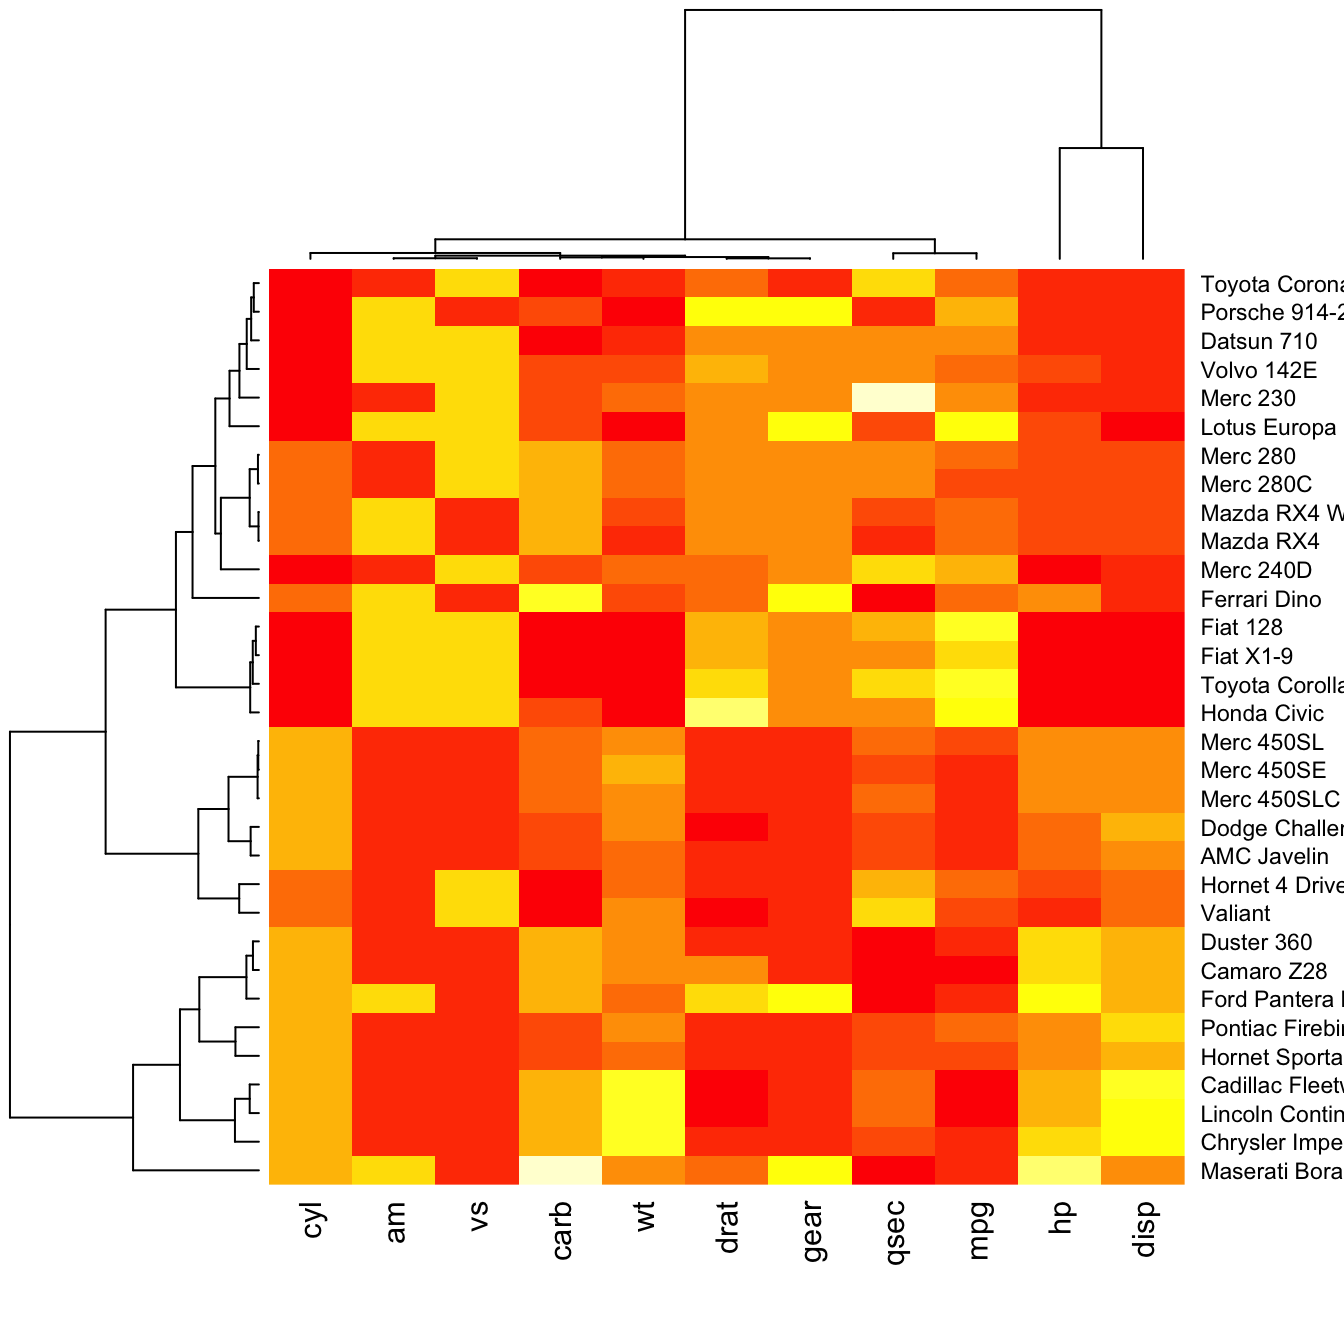
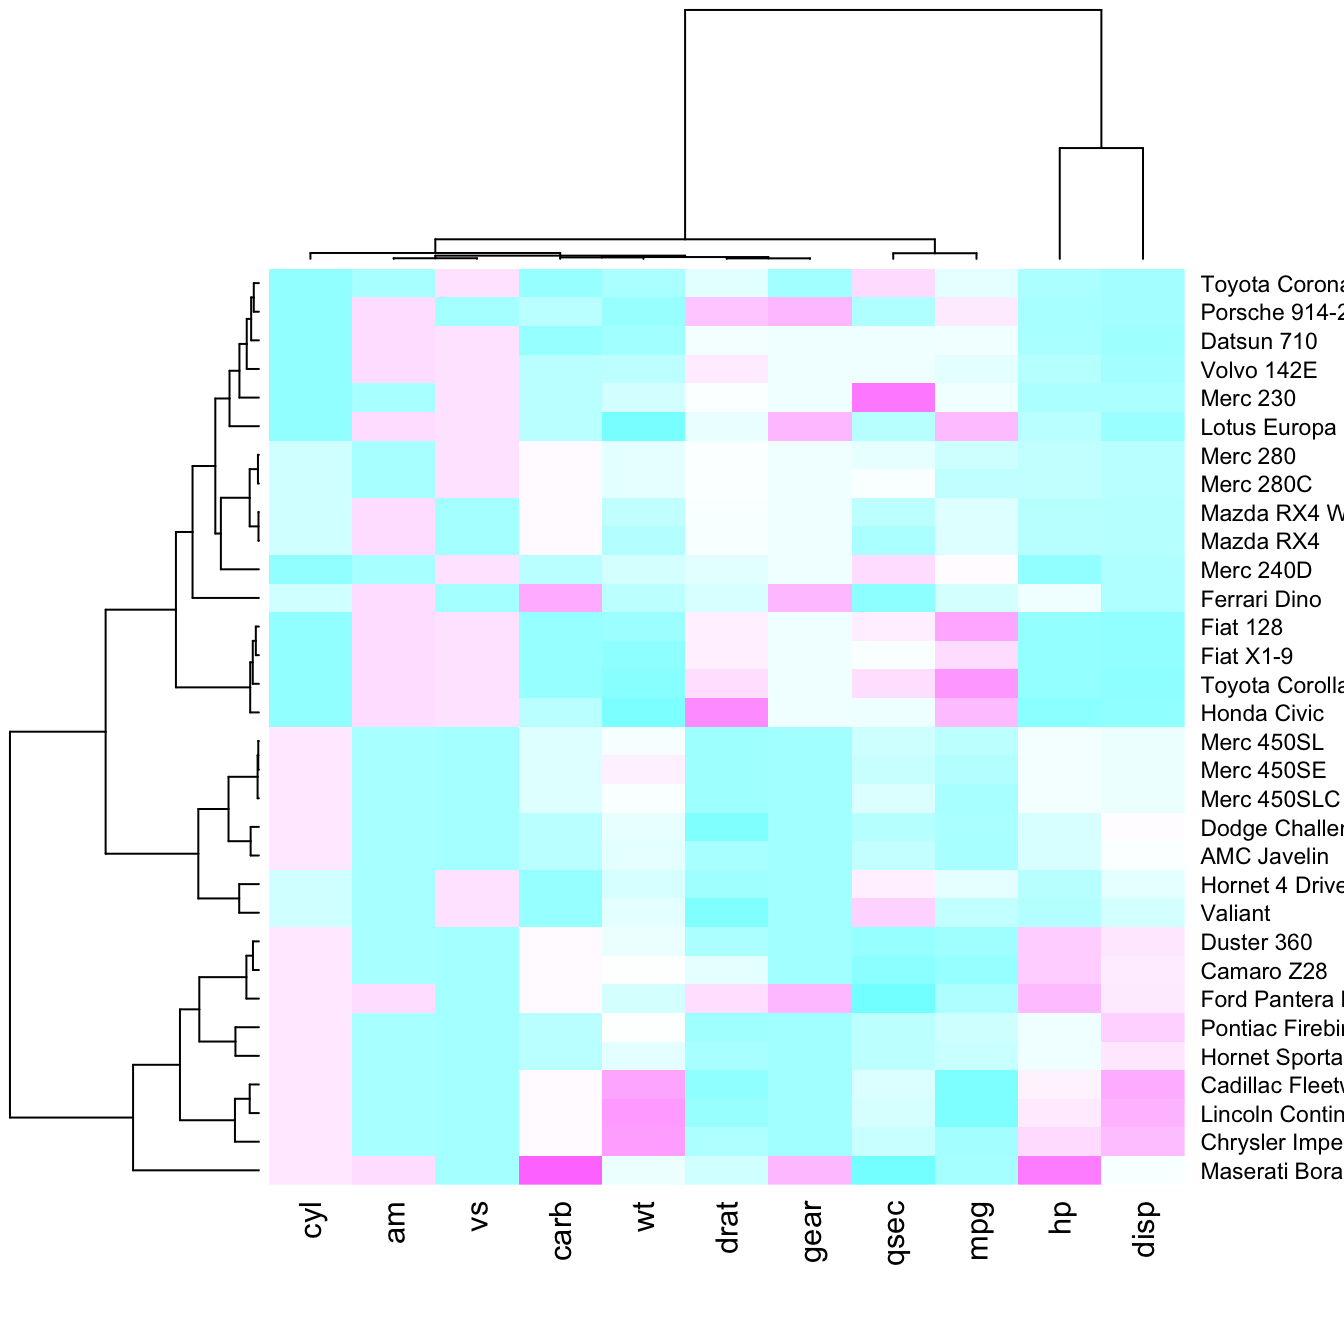
Heatmap section started

diff --git a/215-the-heatmap-function.html b/215-the-heatmap-function.html
@@ -209,18 +209,54 @@ data &lt;-<span class="st"> </span><span class="kw">as.matrix</span>(mtcars)
 </div>
 <div class="sourceCode"><pre class="sourceCode r"><code class="sourceCode r"><span class="co"># No dendrogram nor reordering for neither column or row</span>
 <span class="kw">heatmap</span>(data, <span class="dt">Colv =</span> <span class="ot">NA</span>, <span class="dt">Rowv =</span> <span class="ot">NA</span>, <span class="dt">scale=</span><span class="st">&quot;column&quot;</span>)</code></pre></div>
-<h1 id="normalization-1">Normalization</h1>
+<h1 id="color-palette">Color palette</h1>
+<hr />
+<p><img src="215-the-heatmap-function_files/figure-html/thecode4-1.png" width="30%" /><img src="215-the-heatmap-function_files/figure-html/thecode4-2.png" width="30%" /><img src="215-the-heatmap-function_files/figure-html/thecode4-3.png" width="30%" /></p>
+<div class="row">
+<div class="col-md-6 col-sm-12 align-self-center">
+<p>There are several ways to custom the color palette:</p>
+<ul>
+<li>use the native palettes of R: <code>terrain.color()</code>, <code>rainbow()</code>, <code>heat.colors()</code>, <code>topo.colors()</code> or <code>cm.colors()</code></li>
+<li>use the palettes proposed by <code>RColorBrewer</code>. See list of available palettes <a href="38-rcolorbrewers-palettes.html">here</a>.</li>
+</ul>
+</div>
+<div class="col-md-6 col-sm-12">
+<div class="sourceCode"><pre class="sourceCode r"><code class="sourceCode r"><span class="co"># 1: native palette from R</span>
+<span class="kw">heatmap</span>(data, <span class="dt">scale=</span><span class="st">&quot;column&quot;</span>, <span class="dt">col =</span> <span class="kw">cm.colors</span>(<span class="dv">256</span>))
+<span class="kw">heatmap</span>(data, <span class="dt">scale=</span><span class="st">&quot;column&quot;</span>, <span class="dt">col =</span> <span class="kw">terrain.colors</span>(<span class="dv">256</span>))
+ 
+<span class="co"># 2: Rcolorbrewer palette</span>
+<span class="kw">library</span>(RColorBrewer)
+coul &lt;-<span class="st"> </span><span class="kw">colorRampPalette</span>(<span class="kw">brewer.pal</span>(<span class="dv">8</span>, <span class="st">&quot;PiYG&quot;</span>))(<span class="dv">25</span>)
+<span class="kw">heatmap</span>(data, <span class="dt">scale=</span><span class="st">&quot;column&quot;</span>, <span class="dt">col =</span> coul)</code></pre></div>
+</div>
+</div>
+<h1 id="custom-layout">Custom Layout</h1>
+<hr />
+<p><img src="215-the-heatmap-function_files/figure-html/thecode5-1.png" width="50%" /><img src="215-the-heatmap-function_files/figure-html/thecode5-2.png" width="50%" /></p>
+<p>You can custom title &amp; axis titles with the usual <code>main</code> and <code>xlab</code>/<code>ylab</code> arguments (left).</p>
+<p>You can also change labels with <code>labRow</code>/<code>colRow</code> and their size with <code>cexRow</code>/<code>cexCol</code>.</p>
+<div class="sourceCode"><pre class="sourceCode r"><code class="sourceCode r"><span class="co"># Add classic arguments like main title and axis title</span>
+<span class="kw">heatmap</span>(data, <span class="dt">Colv =</span> <span class="ot">NA</span>, <span class="dt">Rowv =</span> <span class="ot">NA</span>, <span class="dt">scale=</span><span class="st">&quot;column&quot;</span>, <span class="dt">col =</span> coul, <span class="dt">xlab=</span><span class="st">&quot;variable&quot;</span>, <span class="dt">ylab=</span><span class="st">&quot;car&quot;</span>, <span class="dt">main=</span><span class="st">&quot;heatmap&quot;</span>)
+ 
+<span class="co"># Custom x and y labels with cexRow and labRow (col respectively)</span>
+<span class="kw">heatmap</span>(data, <span class="dt">scale=</span><span class="st">&quot;column&quot;</span>, <span class="dt">cexRow=</span><span class="fl">1.5</span>, <span class="dt">labRow=</span><span class="kw">paste</span>(<span class="st">&quot;new_&quot;</span>, <span class="kw">rownames</span>(data),<span class="dt">sep=</span><span class="st">&quot;&quot;</span>), <span class="dt">col=</span> <span class="kw">colorRampPalette</span>(<span class="kw">brewer.pal</span>(<span class="dv">8</span>, <span class="st">&quot;Blues&quot;</span>))(<span class="dv">25</span>))</code></pre></div>
+<h1 id="add-color-beside-heatmap">Add color beside heatmap</h1>
 <hr />
 <div class="row">
 <div class="col-md-6 col-sm-12 align-self-center">
-<p>Normalizing the matrix is done using the <code>scale</code> argument of the <code>heatmap()</code> function. It can be applied to <code>row</code> or to <code>column</code>. Here the <code>column</code> option is chosen, since we need to absorb the variation between column.</p>
+<p>Often, heatmap intends to compare the observed structure with an expected one.</p>
+<p>You can add a vector of color beside the heatmap to represents the expected structure using the <code>RowSideColors</code> argument.</p>
 </div>
 <div class="col-md-6 col-sm-12">
-<p><img src="215-the-heatmap-function_files/figure-html/thecode4-1.png" width="100%" /></p>
+<p><img src="215-the-heatmap-function_files/figure-html/thecode6-1.png" width="100%" /></p>
 </div>
 </div>
-<div class="sourceCode"><pre class="sourceCode r"><code class="sourceCode r"><span class="co"># Use &#39;scale&#39; to normalize</span>
-<span class="kw">heatmap</span>(data, <span class="dt">scale=</span><span class="st">&quot;column&quot;</span>)</code></pre></div>
+<div class="sourceCode"><pre class="sourceCode r"><code class="sourceCode r"><span class="co"># Example: grouping from the first letter:</span>
+my_group &lt;-<span class="st"> </span><span class="kw">as.numeric</span>(<span class="kw">as.factor</span>(<span class="kw">substr</span>(<span class="kw">rownames</span>(data), <span class="dv">1</span> , <span class="dv">1</span>)))
+colSide &lt;-<span class="st"> </span><span class="kw">brewer.pal</span>(<span class="dv">9</span>, <span class="st">&quot;Set1&quot;</span>)[my_group]
+colMain &lt;-<span class="st"> </span><span class="kw">colorRampPalette</span>(<span class="kw">brewer.pal</span>(<span class="dv">8</span>, <span class="st">&quot;Blues&quot;</span>))(<span class="dv">25</span>)
+<span class="kw">heatmap</span>(data, <span class="dt">Colv =</span> <span class="ot">NA</span>, <span class="dt">Rowv =</span> <span class="ot">NA</span>, <span class="dt">scale=</span><span class="st">&quot;column&quot;</span> , <span class="dt">RowSideColors=</span>colSide, <span class="dt">col=</span>colMain   )</code></pre></div>
 <!-- Close container -->
 </div>
 <!-- ============================ RELATED SECTION ============================ -->

diff --git a/heatmap.html b/heatmap.html
@@ -14,16 +14,16 @@
     </script>
 
     <meta charset="utf-8">
-    <title>Heatmap &#124; the D3 Graph Gallery</title>
+    <title>Heatmap &#124; the R Graph Gallery</title>
 
     <meta name="viewport" content="width=device-width, initial-scale=1, shrink-to-fit=no">
-    <meta name="description" content="How to build a heatmap with Javascript and D3.js: from the most basic example to highly customized examples.">
-    <meta name="keywords" content="Data,Dataviz,Datavisualization,Javascript,D3,D3.js,area chart">
+    <meta name="description" content="A heatmap is a graphical representation of data where the individual values contained in a matrix are represented as colors. This page displays many examples built with R, both static and interactive">
+    <meta name="keywords" content="Data,Dataviz,Datavisualization,Javascript,D3,D3.js,heatmap">
     <meta name="author" content="Yan Holtz">
 
-    <meta property="og:title" content="Area Chart &#124; the D3 Graph Gallery">
+    <meta property="og:title" content="Heatmap &#124; the R Graph Gallery">
     <meta property="og:image" content="img/overview_RGG.png">
-    <meta property="og:description" content="How to build a heatmap with Javascript and D3.js: from the most basic example to highly customized examples.">
+    <meta property="og:description" content="A heatmap is a graphical representation of data where the individual values contained in a matrix are represented as colors. This page displays many examples built with R, both static and interactive">
 
     <!-- Bootstrap core CSS -->
     <link href="vendor/bootstrap/css/bootstrap.min.css" rel="stylesheet">
@@ -40,10 +40,6 @@
 
     <!-- JQUERY -->
     <script src="vendor/jquery/jquery.min.js"></script>
-
-    <!-- D3.JS v4 -->
-    <script src="js/d3.v4.js"></script>
-    <script src="https://d3js.org/d3-scale-chromatic.v1.min.js"></script>
 
 </head>
 
@@ -97,7 +93,7 @@ $(function(){
         </li>
       </ul>
       <br><br>
-      <p style="max-width: 700px; margin: auto">This is the <a href="https://www.data-to-viz.com/graph/heatmap.html">heatmap</a> section of the gallery. If you want to know more about this kind of chart, visit <a href="https://www.data-to-viz.com/graph/heatmap.html">data-to-viz.com</a>. If you're looking for a simple way to implement it in d3.js, pick an example below.</p>
+      <p style="max-width: 700px; margin: auto">A <a href="https://www.data-to-viz.com/graph/heatmap.html">heatmap</a> is a graphical representation of data where the individual values contained in a matrix are represented as colors. This page displays many examples built with R, both static and interactive.</p>
   </div>
 </header>
 
@@ -130,39 +126,39 @@ $(function(){
     <hr>
     <div id="portfolio-items" class="row">
       <div class="col-md-4 col-sm-6 portfolio-item">
-        <a class="portfolio-link" href="graph/heatmap_basic.html">
+        <a class="portfolio-link" href="215-the-heatmap-function.html">
           <div class="portfolio-hover">
             <div class="portfolio-hover-content">
-              <p>Most basic</p>
+              <p>Most basic heatmap</p>
               <hr>
-              <p class="explanation_portfolio">The most basic heatmap you can do in d3.js. Keeping only the core code.</p>
+              <p class="explanation_portfolio">The most basic heatmap you can build with R, using the heatmap() function.</p>
             </div>
           </div>
-          <img class="img-fluid" src="img/graph/heatmap_basic.png" alt="">
+          <img class="img-fluid imgOfPortfolio" src="img/graph/215-the-heatmap-function1.png" alt="">
         </a>
       </div>
       <div class="col-md-4 col-sm-6 portfolio-item">
-        <a class="portfolio-link" href="graph/heatmap_tooltip.html">
+        <a class="portfolio-link" href="215-the-heatmap-function.html">
           <div class="portfolio-hover">
             <div class="portfolio-hover-content">
-              <p>Add tooltip to heatmap</p>
+              <p>Control color</p>
               <hr>
-              <p class="explanation_portfolio">Add a tooltip that displays the exact value of a cell and whatever other text.</p>
+              <p class="explanation_portfolio">Control the color palette used in the heatmap. Several methods shown.</p>
             </div>
           </div>
-          <img class="img-fluid" src="img/graph/heatmap_tooltip.gif" alt="">
+          <img class="img-fluid imgOfPortfolio" src="img/graph/215-the-heatmap-function2.png" alt="">
         </a>
       </div>
       <div class="col-md-4 col-sm-6 portfolio-item">
-        <a class="portfolio-link" href="graph/heatmap_style.html">
+        <a class="portfolio-link" href="215-the-heatmap-function.html">
           <div class="portfolio-hover">
             <div class="portfolio-hover-content">
-              <p>Ready to go heatmap</p>
+              <p>Color scheme on the side</p>
               <hr>
-              <p class="explanation_portfolio">A customized heatmap, include hover effect, custom axis, title, fancy color palette, tooltip and more</p>
+              <p class="explanation_portfolio">Add color beside the heatmap to compare actual structure with the expected one.</p>
             </div>
           </div>
-          <img class="img-fluid" src="img/graph/heatmap_style.png" alt="">
+          <img class="img-fluid imgOfPortfolio" src="img/graph/215-the-heatmap-function3.png" alt="">
         </a>
       </div>
     </div>
